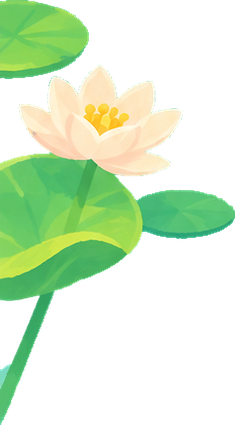
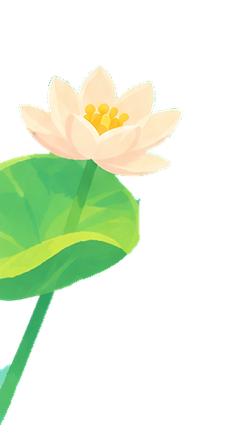
Wad da Frog v.4: clover item, shop rules, layering and polish
- New shop item: four-leaf clover (60 coins, always first in the shop);
  the piggy bank keeps 20% instead of 10% for that run; it glows in its
  seat and tilts right, the bucket tilts left
- Shop: fixed prices (bucket 600, net 700, rainbow 900); buying or a
  mission reward with full seats pushes out the oldest item
- First three events in order: rush, egg feast, red raid; random after
- Layering: kayak shadow under the edge lily pads, edge pads above the
  swamp frogs; removed the marked pads
- 9-slice panels drawn as one image: no seam lines
- Play again: the kayak rises without leftover shaking
- Fix: best distance was never saved (the line sat inside a comment)

Claude-Session: https://claude.ai/code/session_011FqVNA34eSNDpBBPybyU3u

Changed region(s): [[0.0, 0.0, 0.3872, 0.1835], [0.566, 0.4282, 1.0, 0.5812]]

diff --git a/wad-da-frog-v4/index.html b/wad-da-frog-v4/index.html
@@ -26,9 +26,9 @@ const cv=document.getElementById('c');let ctx=cv.getContext('2d');
 const FONT='Fredoka, system-ui, sans-serif';
 let PX=1;const spriteCache=new Map();
 // ---------- v.4 art: painted sprites loaded from assets/ (the old vector drawing stays as a fallback) ----------
-const ASSET_SRC={"frog_egg": "assets/frogs/frog_egg.png", "frog_tadpole": "assets/frogs/frog_tadpole.png", "frog_tadpole_sleep": "assets/frogs/frog_tadpole_sleep.png", "frog_green_teen": "assets/frogs/frog_green_teen.png", "frog_green_teen_sleep": "assets/frogs/frog_green_teen_sleep.png", "frog_green_adult": "assets/frogs/frog_green_adult.png", "frog_red_teen": "assets/frogs/frog_red_teen.png", "frog_red_teen_sleep": "assets/frogs/frog_red_teen_sleep.png", "frog_red_adult": "assets/frogs/frog_red_adult.png", "frog_purple_legs": "assets/frogs/frog_purple_legs.png", "frog_purple_legs_sleep": "assets/frogs/frog_purple_legs_sleep.png", "frog_purple_teen": "assets/frogs/frog_purple_teen.png", "frog_purple_teen_sleep": "assets/frogs/frog_purple_teen_sleep.png", "frog_purple_adult": "assets/frogs/frog_purple_adult.png", "frog_orange_legs": "assets/frogs/frog_orange_legs.png", "frog_orange_legs_sleep": "assets/frogs/frog_orange_legs_sleep.png", "frog_orange_teen": "assets/frogs/frog_orange_teen.png", "frog_orange_teen_sleep": "assets/frogs/frog_orange_teen_sleep.png", "frog_orange_adult": "assets/frogs/frog_orange_adult.png", "frog_blue_legs": "assets/frogs/frog_blue_legs.png", "frog_blue_legs_sleep": "assets/frogs/frog_blue_legs_sleep.png", "frog_blue_tiny": "assets/frogs/frog_blue_tiny.png", "frog_blue_tiny_sleep": "assets/frogs/frog_blue_tiny_sleep.png", "frog_blue_teen": "assets/frogs/frog_blue_teen.png", "frog_blue_teen_sleep": "assets/frogs/frog_blue_teen_sleep.png", "frog_blue_adult": "assets/frogs/frog_blue_adult.png", "frog_yellow_legs": "assets/frogs/frog_yellow_legs.png", "frog_yellow_legs_sleep": "assets/frogs/frog_yellow_legs_sleep.png", "frog_yellow_tiny": "assets/frogs/frog_yellow_tiny.png", "frog_yellow_tiny_sleep": "assets/frogs/frog_yellow_tiny_sleep.png", "frog_yellow_teen": "assets/frogs/frog_yellow_teen.png", "frog_yellow_teen_sleep": "assets/frogs/frog_yellow_teen_sleep.png", "frog_yellow_grown": "assets/frogs/frog_yellow_grown.png", "frog_yellow_grown_sleep": "assets/frogs/frog_yellow_grown_sleep.png", "frog_yellow_adult": "assets/frogs/frog_yellow_adult.png", "kayak": "assets/scene/kayak.png", "kayak_crack_1": "assets/scene/kayak_crack_1.png", "kayak_crack_2": "assets/scene/kayak_crack_2.png", "kayak_crack_3": "assets/scene/kayak_crack_3.png", "bg_swamp": "assets/scene/bg_swamp.jpg", "swamp_leaf": "assets/scene/swamp_leaf.png", "lilypad": "assets/scene/lilypad.png", "lilypad_stem": "assets/scene/lilypad_stem.png", "btn_tutorial": "assets/ui/btn_tutorial.png", "icon_coin": "assets/ui/icon_coin.png", "tutorial_hand": "assets/ui/tutorial_hand.png", "load_icon_happy": "assets/ui/load_icon_happy.png", "load_icon_hmm": "assets/ui/load_icon_hmm.png", "load_icon_worried": "assets/ui/load_icon_worried.png", "load_icon_panic": "assets/ui/load_icon_panic.png", "item_rainbow": "assets/ui/item_rainbow.png", "item_bucket": "assets/ui/item_bucket.png", "item_net": "assets/ui/item_net.png", "mission_poster": "assets/ui/mission_poster.png", "card_newfrog": "assets/ui/card_newfrog.png", "btn_continue_ad": "assets/ui/btn_continue_ad.png", "mission_pad": "assets/ui/mission_pad.png", "piggy_bank": "assets/ui/piggy_bank.png", "tag_10pct": "assets/ui/tag_10pct.png", "logo": "assets/ui/logo.png", "cover": "assets/ui/cover.jpg", "banner_panel": "assets/ui/banner_panel.png", "lotus_bud": "assets/scene/lotus_bud.png", "lotus_half": "assets/scene/lotus_half.png", "lotus_full": "assets/scene/lotus_full.png", "deco_lotus_1": "assets/deco/deco_lotus_1.png", "deco_lotus_2": "assets/deco/deco_lotus_2.png", "deco_lotus_3": "assets/deco/deco_lotus_3.png", "deco_lotus_5": "assets/deco/deco_lotus_5.png", "deco_lotus_6": "assets/deco/deco_lotus_6.png", "frog_green_teen_eat": "assets/frogs/frog_green_teen_eat.png", "frog_red_teen_eat": "assets/frogs/frog_red_teen_eat.png", "frog_purple_teen_eat": "assets/frogs/frog_purple_teen_eat.png", "frog_orange_teen_eat": "assets/frogs/frog_orange_teen_eat.png", "frog_blue_teen_eat": "assets/frogs/frog_blue_teen_eat.png", "frog_yellow_teen_eat": "assets/frogs/frog_yellow_teen_eat.png", "frog_blue_tiny_eat": "assets/frogs/frog_blue_tiny_eat.png", "frog_yellow_tiny_eat": "assets/frogs/frog_yellow_tiny_eat.png", "frog_yellow_grown_eat": "assets/frogs/frog_yellow_grown_eat.png", "shop_card": "assets/ui/shop_card.png", "shop_awning": "assets/ui/shop_awning.png"};
-const RECT={"frog_egg": [-10.5, -10.5, 21, 21], "frog_tadpole": [-13.12, -13.12, 27.75, 26.25], "frog_tadpole_sleep": [-13.12, -13.12, 27.75, 26.25], "frog_green_teen": [-24.15, -19.4, 48.5, 43.5], "frog_green_teen_sleep": [-24.15, -19.4, 48.5, 43.5], "frog_green_adult": [-36.1, -40, 72.25, 74.75], "frog_red_teen": [-24.15, -19.4, 48.5, 43.5], "frog_red_teen_sleep": [-24.15, -19.4, 48.5, 43.5], "frog_red_adult": [-36.1, -44.75, 72.25, 79.5], "frog_purple_legs": [-16.28, -16.28, 34.25, 32.75], "frog_purple_legs_sleep": [-16.28, -16.28, 34.25, 32.75], "frog_purple_teen": [-24.15, -19.4, 48.5, 43.5], "frog_purple_teen_sleep": [-24.15, -19.4, 48.5, 43.5], "frog_purple_adult": [-36.1, -51, 72.25, 85.75], "frog_orange_legs": [-16.28, -16.28, 34.25, 32.75], "frog_orange_legs_sleep": [-16.28, -16.28, 34.25, 32.75], "frog_orange_teen": [-24.15, -19.4, 48.5, 43.5], "frog_orange_teen_sleep": [-24.15, -19.4, 48.5, 43.5], "frog_orange_adult": [-36.1, -28.75, 72.25, 63.5], "frog_blue_legs": [-16.28, -16.28, 34.25, 32.75], "frog_blue_legs_sleep": [-16.28, -16.28, 34.25, 32.75], "frog_blue_tiny": [-19.95, -16.45, 40, 36.5], "frog_blue_tiny_sleep": [-19.95, -16.45, 40, 36.5], "frog_blue_teen": [-24.15, -19.4, 48.5, 43.5], "frog_blue_teen_sleep": [-24.15, -19.4, 48.5, 43.5], "frog_blue_adult": [-36.1, -51, 72.25, 85.75], "frog_yellow_legs": [-16.28, -16.28, 34.25, 32.75], "frog_yellow_legs_sleep": [-16.28, -16.28, 34.25, 32.75], "frog_yellow_tiny": [-19.95, -16.45, 40, 36.5], "frog_yellow_tiny_sleep": [-19.95, -16.45, 40, 36.5], "frog_yellow_teen": [-24.15, -19.4, 48.5, 43.5], "frog_yellow_teen_sleep": [-24.15, -19.4, 48.5, 43.5], "frog_yellow_grown": [-29.4, -23.15, 59, 52], "frog_yellow_grown_sleep": [-29.4, -23.15, 59, 52], "frog_yellow_adult": [-36.1, -40.5, 72.25, 75.25], "kayak": [44.33, 512.33, 271.33, 233.67], "kayak_crack_1": [104.33, 603.33, 34.33, 70.67], "kayak_crack_2": [226.67, 614.33, 34.33, 56.67], "kayak_crack_3": [161, 546.67, 35.67, 51.67], "bg_swamp": [0, 0, 360, 640], "swamp_leaf": [4, 3, 22, 14], "lilypad": [8.25, 5, 89.25, 43], "lilypad_stem": [8.5, 5, 76.25, 62.25], "btn_tutorial": [3, 3, 45, 47], "icon_coin": [4, 4, 22, 23], "tutorial_hand": [13, 2.5, 37, 48.75], "load_icon_happy": [3, 7.6, 44, 25.4], "load_icon_hmm": [3, 7.6, 44, 25.4], "load_icon_worried": [3, 7.6, 44, 25.4], "load_icon_panic": [3, 7.6, 44, 25.4], "item_rainbow": [1.13, 0.0, 31.73, 34], "item_bucket": [0.35, 0.0, 33.29, 34], "item_net": [0.0, 4.04, 34, 25.93], "mission_poster": [7, 4.4, 57.4, 68.2], "card_newfrog": [8, 4, 248, 312], "btn_continue_ad": [4, 4, 112, 112], "mission_pad": [2, 2, 52, 36], "piggy_bank": [6.5, 11, 67, 59.5], "tag_10pct": [2.75, 4, 45, 26], "frog_green_teen_eat": [-24.15, -19.4, 48.5, 43.5], "frog_red_teen_eat": [-24.15, -19.4, 48.5, 43.5], "frog_purple_teen_eat": [-24.15, -19.4, 48.5, 43.5], "frog_orange_teen_eat": [-24.15, -19.4, 48.5, 43.5], "frog_blue_teen_eat": [-24.15, -19.4, 48.5, 43.5], "frog_yellow_teen_eat": [-24.15, -19.4, 48.5, 43.5], "frog_blue_tiny_eat": [-19.95, -16.45, 40, 36.5], "frog_yellow_tiny_eat": [-19.95, -16.45, 40, 36.5], "frog_yellow_grown_eat": [-29.4, -23.15, 59, 52]};   // where each sprite sits, in game units, relative to the point the old code drew from
-const DECO=[["deco_lotus_1", 298.8, 177.1, 61.2, 55.1], ["deco_lotus_2", 0.0, 161.4, 78.4, 141.6], ["deco_lotus_3", 317.5, 283.5, 42.5, 62.0], ["deco_lotus_5", 0.0, 577.7, 67.3, 52.0], ["deco_lotus_6", 277.0, 459.1, 83.0, 153.8]];   // scene decorations around the edges (above the water, under the frogs)
+const ASSET_SRC={"frog_egg": "assets/frogs/frog_egg.png", "frog_tadpole": "assets/frogs/frog_tadpole.png", "frog_tadpole_sleep": "assets/frogs/frog_tadpole_sleep.png", "frog_green_teen": "assets/frogs/frog_green_teen.png", "frog_green_teen_sleep": "assets/frogs/frog_green_teen_sleep.png", "frog_green_adult": "assets/frogs/frog_green_adult.png", "frog_red_teen": "assets/frogs/frog_red_teen.png", "frog_red_teen_sleep": "assets/frogs/frog_red_teen_sleep.png", "frog_red_adult": "assets/frogs/frog_red_adult.png", "frog_purple_legs": "assets/frogs/frog_purple_legs.png", "frog_purple_legs_sleep": "assets/frogs/frog_purple_legs_sleep.png", "frog_purple_teen": "assets/frogs/frog_purple_teen.png", "frog_purple_teen_sleep": "assets/frogs/frog_purple_teen_sleep.png", "frog_purple_adult": "assets/frogs/frog_purple_adult.png", "frog_orange_legs": "assets/frogs/frog_orange_legs.png", "frog_orange_legs_sleep": "assets/frogs/frog_orange_legs_sleep.png", "frog_orange_teen": "assets/frogs/frog_orange_teen.png", "frog_orange_teen_sleep": "assets/frogs/frog_orange_teen_sleep.png", "frog_orange_adult": "assets/frogs/frog_orange_adult.png", "frog_blue_legs": "assets/frogs/frog_blue_legs.png", "frog_blue_legs_sleep": "assets/frogs/frog_blue_legs_sleep.png", "frog_blue_tiny": "assets/frogs/frog_blue_tiny.png", "frog_blue_tiny_sleep": "assets/frogs/frog_blue_tiny_sleep.png", "frog_blue_teen": "assets/frogs/frog_blue_teen.png", "frog_blue_teen_sleep": "assets/frogs/frog_blue_teen_sleep.png", "frog_blue_adult": "assets/frogs/frog_blue_adult.png", "frog_yellow_legs": "assets/frogs/frog_yellow_legs.png", "frog_yellow_legs_sleep": "assets/frogs/frog_yellow_legs_sleep.png", "frog_yellow_tiny": "assets/frogs/frog_yellow_tiny.png", "frog_yellow_tiny_sleep": "assets/frogs/frog_yellow_tiny_sleep.png", "frog_yellow_teen": "assets/frogs/frog_yellow_teen.png", "frog_yellow_teen_sleep": "assets/frogs/frog_yellow_teen_sleep.png", "frog_yellow_grown": "assets/frogs/frog_yellow_grown.png", "frog_yellow_grown_sleep": "assets/frogs/frog_yellow_grown_sleep.png", "frog_yellow_adult": "assets/frogs/frog_yellow_adult.png", "kayak": "assets/scene/kayak.png", "kayak_crack_1": "assets/scene/kayak_crack_1.png", "kayak_crack_2": "assets/scene/kayak_crack_2.png", "kayak_crack_3": "assets/scene/kayak_crack_3.png", "bg_swamp": "assets/scene/bg_swamp.jpg", "swamp_leaf": "assets/scene/swamp_leaf.png", "lilypad": "assets/scene/lilypad.png", "lilypad_stem": "assets/scene/lilypad_stem.png", "btn_tutorial": "assets/ui/btn_tutorial.png", "icon_coin": "assets/ui/icon_coin.png", "tutorial_hand": "assets/ui/tutorial_hand.png", "load_icon_happy": "assets/ui/load_icon_happy.png", "load_icon_hmm": "assets/ui/load_icon_hmm.png", "load_icon_worried": "assets/ui/load_icon_worried.png", "load_icon_panic": "assets/ui/load_icon_panic.png", "item_rainbow": "assets/ui/item_rainbow.png", "item_bucket": "assets/ui/item_bucket.png", "item_net": "assets/ui/item_net.png", "mission_poster": "assets/ui/mission_poster.png", "card_newfrog": "assets/ui/card_newfrog.png", "btn_continue_ad": "assets/ui/btn_continue_ad.png", "mission_pad": "assets/ui/mission_pad.png", "piggy_bank": "assets/ui/piggy_bank.png", "tag_10pct": "assets/ui/tag_10pct.png", "logo": "assets/ui/logo.png", "cover": "assets/ui/cover.jpg", "banner_panel": "assets/ui/banner_panel.png", "lotus_bud": "assets/scene/lotus_bud.png", "lotus_half": "assets/scene/lotus_half.png", "lotus_full": "assets/scene/lotus_full.png", "deco_lotus_2": "assets/deco/deco_lotus_2.png", "deco_lotus_3": "assets/deco/deco_lotus_3.png", "deco_lotus_5": "assets/deco/deco_lotus_5.png", "deco_lotus_6": "assets/deco/deco_lotus_6.png", "frog_green_teen_eat": "assets/frogs/frog_green_teen_eat.png", "frog_red_teen_eat": "assets/frogs/frog_red_teen_eat.png", "frog_purple_teen_eat": "assets/frogs/frog_purple_teen_eat.png", "frog_orange_teen_eat": "assets/frogs/frog_orange_teen_eat.png", "frog_blue_teen_eat": "assets/frogs/frog_blue_teen_eat.png", "frog_yellow_teen_eat": "assets/frogs/frog_yellow_teen_eat.png", "frog_blue_tiny_eat": "assets/frogs/frog_blue_tiny_eat.png", "frog_yellow_tiny_eat": "assets/frogs/frog_yellow_tiny_eat.png", "frog_yellow_grown_eat": "assets/frogs/frog_yellow_grown_eat.png", "shop_card": "assets/ui/shop_card.png", "shop_awning": "assets/ui/shop_awning.png", "item_clover": "assets/ui/item_clover.png"};
+const RECT={"frog_egg": [-10.5, -10.5, 21, 21], "frog_tadpole": [-13.12, -13.12, 27.75, 26.25], "frog_tadpole_sleep": [-13.12, -13.12, 27.75, 26.25], "frog_green_teen": [-24.15, -19.4, 48.5, 43.5], "frog_green_teen_sleep": [-24.15, -19.4, 48.5, 43.5], "frog_green_adult": [-36.1, -40, 72.25, 74.75], "frog_red_teen": [-24.15, -19.4, 48.5, 43.5], "frog_red_teen_sleep": [-24.15, -19.4, 48.5, 43.5], "frog_red_adult": [-36.1, -44.75, 72.25, 79.5], "frog_purple_legs": [-16.28, -16.28, 34.25, 32.75], "frog_purple_legs_sleep": [-16.28, -16.28, 34.25, 32.75], "frog_purple_teen": [-24.15, -19.4, 48.5, 43.5], "frog_purple_teen_sleep": [-24.15, -19.4, 48.5, 43.5], "frog_purple_adult": [-36.1, -51, 72.25, 85.75], "frog_orange_legs": [-16.28, -16.28, 34.25, 32.75], "frog_orange_legs_sleep": [-16.28, -16.28, 34.25, 32.75], "frog_orange_teen": [-24.15, -19.4, 48.5, 43.5], "frog_orange_teen_sleep": [-24.15, -19.4, 48.5, 43.5], "frog_orange_adult": [-36.1, -28.75, 72.25, 63.5], "frog_blue_legs": [-16.28, -16.28, 34.25, 32.75], "frog_blue_legs_sleep": [-16.28, -16.28, 34.25, 32.75], "frog_blue_tiny": [-19.95, -16.45, 40, 36.5], "frog_blue_tiny_sleep": [-19.95, -16.45, 40, 36.5], "frog_blue_teen": [-24.15, -19.4, 48.5, 43.5], "frog_blue_teen_sleep": [-24.15, -19.4, 48.5, 43.5], "frog_blue_adult": [-36.1, -51, 72.25, 85.75], "frog_yellow_legs": [-16.28, -16.28, 34.25, 32.75], "frog_yellow_legs_sleep": [-16.28, -16.28, 34.25, 32.75], "frog_yellow_tiny": [-19.95, -16.45, 40, 36.5], "frog_yellow_tiny_sleep": [-19.95, -16.45, 40, 36.5], "frog_yellow_teen": [-24.15, -19.4, 48.5, 43.5], "frog_yellow_teen_sleep": [-24.15, -19.4, 48.5, 43.5], "frog_yellow_grown": [-29.4, -23.15, 59, 52], "frog_yellow_grown_sleep": [-29.4, -23.15, 59, 52], "frog_yellow_adult": [-36.1, -40.5, 72.25, 75.25], "kayak": [44.33, 512.33, 271.33, 233.67], "kayak_crack_1": [104.33, 603.33, 34.33, 70.67], "kayak_crack_2": [226.67, 614.33, 34.33, 56.67], "kayak_crack_3": [161, 546.67, 35.67, 51.67], "bg_swamp": [0, 0, 360, 640], "swamp_leaf": [4, 3, 22, 14], "lilypad": [8.25, 5, 89.25, 43], "lilypad_stem": [8.5, 5, 76.25, 62.25], "btn_tutorial": [3, 3, 45, 47], "icon_coin": [4, 4, 22, 23], "tutorial_hand": [13, 2.5, 37, 48.75], "load_icon_happy": [3, 7.6, 44, 25.4], "load_icon_hmm": [3, 7.6, 44, 25.4], "load_icon_worried": [3, 7.6, 44, 25.4], "load_icon_panic": [3, 7.6, 44, 25.4], "item_rainbow": [1.13, 0.0, 31.73, 34], "item_bucket": [0.35, 0.0, 33.29, 34], "item_net": [0.0, 4.04, 34, 25.93], "mission_poster": [7, 4.4, 57.4, 68.2], "card_newfrog": [8, 4, 248, 312], "btn_continue_ad": [4, 4, 112, 112], "mission_pad": [2, 2, 52, 36], "piggy_bank": [6.5, 11, 67, 59.5], "tag_10pct": [2.75, 4, 45, 26], "frog_green_teen_eat": [-24.15, -19.4, 48.5, 43.5], "frog_red_teen_eat": [-24.15, -19.4, 48.5, 43.5], "frog_purple_teen_eat": [-24.15, -19.4, 48.5, 43.5], "frog_orange_teen_eat": [-24.15, -19.4, 48.5, 43.5], "frog_blue_teen_eat": [-24.15, -19.4, 48.5, 43.5], "frog_yellow_teen_eat": [-24.15, -19.4, 48.5, 43.5], "frog_blue_tiny_eat": [-19.95, -16.45, 40, 36.5], "frog_yellow_tiny_eat": [-19.95, -16.45, 40, 36.5], "frog_yellow_grown_eat": [-29.4, -23.15, 59, 52], "item_clover": [1.7, 0.0, 30.6, 34]};   // where each sprite sits, in game units, relative to the point the old code drew from
+const DECO=[["deco_lotus_2", 0.0, 161.4, 78.4, 141.6], ["deco_lotus_3", 317.5, 283.5, 42.5, 62.0], ["deco_lotus_5", 0.0, 577.7, 67.3, 52.0], ["deco_lotus_6", 277.0, 459.1, 83.0, 153.8]];   // scene decorations around the edges (above the water, under the frogs)
 const PLUM='#520929',CREAM='#fff8ec',HUDBR='#896838';
 const IMG={};let assetsReady=false,assetsDone=0;const assetsTotal=Object.keys(ASSET_SRC).length;
 function loadOne(id){return new Promise(res=>{const im=new Image();im.onload=im.onerror=()=>{assetsDone++;res()};im.src=ASSET_SRC[id];IMG[id]=im})}
@@ -39,8 +39,7 @@ function drawRect(id,ox,oy,k){const im=img(id),r=RECT[id];if(!im||!r)return fals
 function rrect(x,y,w,h,r){ctx.beginPath();ctx.roundRect(x,y,w,h,Math.min(r,w/2,h/2))}
 // a stretchy panel: the painted banner, cut into left cap / middle / right cap so it keeps its round ends at any width
 function panel(x,y,w,h){const im=img('banner_panel');if(!im){ctx.fillStyle='rgba(6,20,16,.72)';rrect(x,y,w,h,14);ctx.fill();return}
-  const s=h/im.height,cap=Math.min(im.height*.55,im.width/2),cw=cap*s;
-  ctx.drawImage(im,0,0,cap,im.height,x,y,cw,h);ctx.drawImage(im,cap,0,im.width-cap*2,im.height,x+cw,y,Math.max(0,w-cw*2),h);ctx.drawImage(im,im.width-cap,0,cap,im.height,x+w-cw,y,cw,h)}
+  nine('banner_panel',x,y,w,h,Math.round(im.height*.45),h*.45)}
 
 let OYV=0;   // extra scene above and below the 360x640 play area, in game units (fills tall phone screens)
 function resize(){
@@ -107,7 +106,7 @@ const EV_WARN=2.2, EV_CALM=6, EGG_FEAST=9, BURST_ROWS=3, BURST_TIME=.55, ROW_H=4
 const LV_START=60, LV_RATE=.003;   // the main difficulty: after the first minute, boarding and rows keep speeding up with time (+0.4% a second, no ceiling)
 const EV_W={rows:.45,reds:.3,eggs:.25};
 const CRACKS_MAX=3;
-const RAID_FROM=3;   // the red raid can come from the 4th event on   // a red frog crashing on the kayak cracks it; the third crack sinks it
+const RAID_FROM=2;   // the red raid can come from the 4th event on   // a red frog crashing on the kayak cracks it; the third crack sinks it
 const EGG_RAIN=.15, EGG_BOARD=2.2;   // chance a wave is an egg rain instead of a rush; eggs climb aboard this much faster
 const RUSH_ROWS=2.4, RUSH_BOARD=1.8, CALM_BOARD=.45;              // how much faster rows / boarders come during a rush; boarders during a calm
 const ADULT_WAIT=.55;             // an adult crouches this long, then uses its ability
@@ -126,8 +125,12 @@ const SEATS=[[33,487],[33,535],[33,583]];   // item pads along the left edge (ta
 // ---------- items (bought in the shop when you sink; up to 3 sit in the cockpit seats and stay there between runs; tap to use) ----------
 const ITEMS={rainbow:{icon:'🌈',name:'Rainbow',desc:'Any colours merge for a moment'},
   bucket:{icon:'🪣',name:'Bucket',desc:'Scoops frogs off the kayak'},
-  net:{icon:'🥅',name:'Net',desc:'Stops the next red frog (works by itself)'}};
+  net:{icon:'🥅',name:'Net',desc:'Stops the next red frog (works by itself)'},
+  clover:{icon:'🍀',name:'Clover',desc:'The piggy bank keeps 20% this run'}};
 const ITEM_KEYS=Object.keys(ITEMS),ITEM_MAX=3,RAINBOW_TIME=6;
+const ITEM_TILT={bucket:-Math.PI/6,clover:Math.PI/6};
+const PRICE={clover:60,bucket:600,net:700,rainbow:900};
+let seatOut=null;   // the item pushed out of a full row of seats (floats up and fades)
 // ---------- state ----------
 let state='start',t=0,frogs=[],parts=[],texts=[],leavers=[],reds=[],deckReds=[],slapped=[],clouds=[],raft=[],
   coins=0,meters=0,pace=0,cool=0,rowT=0,boardT=0,sinkT=0,load=0,thrown=0,drag=null,endT=0,scroll=0,shake=0,pileLow=0,
@@ -240,7 +243,7 @@ function drawMood(){if(state!=='play'&&state!=='card')return;
         ctx.fillStyle='rgba(255,246,200,'+(.8*tw*moodK)+')';const z=3+3*tw;ctx.beginPath();ctx.moveTo(x,y-z);ctx.lineTo(x+z*.3,y);ctx.lineTo(x,y+z);ctx.lineTo(x-z*.3,y);ctx.closePath();ctx.fill();ctx.beginPath();ctx.moveTo(x-z,y);ctx.lineTo(x,y+z*.3);ctx.lineTo(x+z,y);ctx.lineTo(x,y-z*.3);ctx.closePath();ctx.fill()}}}
   if(calmK>.01){ctx.fillStyle='rgba(255,255,225,'+(.08*calmK)+')';ctx.fillRect(0,-OYV,W,H+OYV*2)}}
 function raidPositions(n){const w=n*(2*STAGES[ADULT].r+2);return Array.from({length:n},(_,i)=>(W-w)/2+STAGES[ADULT].r+i*(2*STAGES[ADULT].r+2))}
-function pickEvent(){if(evN===0)return 'rows';
+function pickEvent(){if(evN===0)return 'rows';if(evN===1)return 'eggs';if(evN===2&&redsSeen)return 'reds';
   const ok=Object.keys(EV_W).filter(k=>!(k==='reds'&&(!redsSeen||evKind==='reds'||evN<RAID_FROM)));let r=Math.random()*ok.reduce((a,k)=>a+EV_W[k],0);
   for(const k of ok){r-=EV_W[k];if(r<=0)return k}return 'rows'}
 function rumble(){tone(80,.9,'sine',.16,.6);noise(.6,220,.12)}
@@ -265,19 +268,18 @@ const today=()=>{const d=new Date();return d.getFullYear()+'-'+(d.getMonth()+1)+
 function makeMission(idx){let sp,n;
   if(idx%2===0){sp='green';n=Math.min(30,6+4*(idx/2))}   // 6, 10, 14 ...
   else{const pool=['red'].concat(['orange','purple','blue'].filter(k=>seen.includes(k)));sp=pool[((idx-1)/2)%pool.length];n=Math.min(8,{red:2,orange:3,purple:3,blue:2}[sp]+Math.floor(idx/4))}
-  return{day:today(),idx,sp,need:n,left:n,item:ITEM_KEYS[Math.floor(Math.random()*ITEM_KEYS.length)]}}
+  const pk=['rainbow','bucket','net'];return{day:today(),idx,sp,need:n,left:n,item:pk[Math.floor(Math.random()*pk.length)]}}
 function saveMission(){try{localStorage.setItem('wadMission4',JSON.stringify(mission))}catch(e){}}
 function loadMission(){try{mission=JSON.parse(localStorage.getItem('wadMission4')||'null')}catch(e){mission=null}
   if(!mission||mission.day!==today()){mission=makeMission(0);saveMission()}}   // a new day: back to the first, easy poster
 loadMission();
 function missionHit(sp){if(tut||!mission||misAnim||state!=='play'||sp!==mission.sp)return;mission.left--;misPop=.3;saveMission();tone(990,.06,'triangle',.06);
   if(mission.left<=0)misAnim={t:0,item:mission.item,done:{}}}
-function missionUpdate(dt){misPop=Math.max(0,misPop-dt);if(seatPop){seatPop.t+=dt;if(seatPop.t>.5)seatPop=null}
+function missionUpdate(dt){misPop=Math.max(0,misPop-dt);if(seatPop){seatPop.t+=dt;if(seatPop.t>.5)seatPop=null}if(seatOut){seatOut.t+=dt;if(seatOut.t>.6)seatOut=null}
   if(!misAnim)return;const a=misAnim;a.t+=dt;
   if(!a.done.peel){a.done.peel=1;tone(660,.1,'triangle',.1);setTimeout(()=>tone(880,.1,'triangle',.1),80);setTimeout(()=>tone(1320,.16,'triangle',.1),160);noise(.2,2500,.08)}
   if(a.t>1.1&&!a.done.give){a.done.give=1;
-    if(boatItems.length<ITEM_MAX){boatItems.push(a.item);saveItems();seatPop={i:boatItems.length-1,t:0};tone(1046,.12,'triangle',.12)}
-    else{coins+=MIS_FULL_COINS;for(let i=0;i<8;i++)coinFly.push({x:MIS_PAD[0]+rnd(-8,8),y:MIS_PAD[1]+rnd(-8,8),t:-i*.05,dur:rnd(.45,.65)});tone(1046,.12,'triangle',.12)}}
+    {if(boatItems.length>=ITEM_MAX)seatOut={k:boatItems.shift(),t:0};boatItems.push(a.item);saveItems();seatPop={i:boatItems.length-1,t:0};tone(1046,.12,'triangle',.12)}}
   if(a.t>1.5&&!a.done.next){a.done.next=1;mission=makeMission(mission.idx+1);saveMission()}
   if(a.t>2.1)misAnim=null}
 const MIS_SC=1.55;
@@ -427,7 +429,7 @@ function aimTarget(){const it=raft[0];if(!it||it.st!==0||!aiming())return null;c
   return best&&canEat(best)?best:null}
 function gainItem(k,x,y){burst(x,y,'#fff3a0',16);tone(880,.1,'triangle',.12);setTimeout(()=>tone(1320,.14,'triangle',.12),90);
   say(x,y-30,ITEMS[k].icon+' '+ITEMS[k].name,'#fff3a0',18);
-  if(boatItems.length<ITEM_MAX){boatItems.push(k);saveItems()}else useItem(k)}
+  if(boatItems.length>=ITEM_MAX)seatOut={k:boatItems.shift(),t:0};boatItems.push(k);saveItems()}
 function useItem(k){if(tut)tut.used=k;if(k==='bucket'&&!bucketTold){bucketTold=true;bucketTip=false;try{localStorage.setItem('wadBucket4','1')}catch(e){}}showBanner(ITEMS[k].icon+' '+ITEMS[k].name,'#fff3a0');
   if(k==='rainbow'){rainbowT=RAINBOW_TIME;rainNote=0;for(const f of frogs){f.awake=true;if(!f.enter)f.pop=.2}shake=Math.max(shake,.15);
     [523,659,784,1046].forEach((f,i)=>setTimeout(()=>tone(f,.14,'triangle',.12),i*80))}
@@ -570,8 +572,10 @@ function drawAd(){ctx.fillStyle='#111';ctx.fillRect(0,-OYV,W,H+OYV*2);txt('AD',W
   ctx.fillStyle='rgba(255,255,255,.2)';ctx.fillRect(60,H/2+40,W-120,8);ctx.fillStyle='#ffd34a';ctx.fillRect(60,H/2+40,(W-120)*clamp(adT/AD_TIME,0,1),8)}   // a stand-in for a real video ad
 function finishOver(){state='over';endHint=null;endT=t;const bonus=Math.floor(meters/10);
   endInfo={secs:Math.floor(t),m:Math.floor(meters),frogCoins:coins,bonus,total:coins+bonus,newBest:Math.floor(meters)>bestM};
-  endInfo.saved=Math.ceil(endInfo.total*PIGGY_CUT);piggyShow=wallet;wallet+=endInfo.saved;   // the piggy bank only keeps 10% of the runbestM=Math.max(bestM,Math.floor(meters));
-  const pool=ITEM_KEYS.slice().sort(()=>Math.random()-.5);shop=pool.map((k,i)=>({k,price:150+Math.floor(Math.random()*11)*25,x:72+i*108,y:430,sold:false,shakeT:0}));
+  {const ci=boatItems.indexOf('clover');endInfo.cut=ci>=0?.2:PIGGY_CUT;if(ci>=0){boatItems.splice(ci,1);saveItems()}}   // a lucky clover: the piggy bank keeps 20%
+  endInfo.saved=Math.ceil(endInfo.total*endInfo.cut);piggyShow=wallet;wallet+=endInfo.saved;   // the piggy bank only keeps 10% of the run
+  bestM=Math.max(bestM,Math.floor(meters));
+  const pool=['clover'].concat(['bucket','net','rainbow'].sort(()=>Math.random()-.5).slice(0,2));shop=pool.map((k,i)=>({k,price:PRICE[k],x:72+i*108,y:430,sold:false,shakeT:0}));
   try{localStorage.setItem('wadWallet',wallet);localStorage.setItem('wadBestM4',bestM)}catch(e){}
   sadSound();drag=null}
 
@@ -708,10 +712,11 @@ function drawCrack(i){const c=CRACKS[i],fx=crackFx>0&&i===cracks-1?1+crackFx*.6:
   ctx.strokeStyle='rgba(255,220,190,.7)';ctx.lineWidth=5*fx;ctx.beginPath();c.forEach(([x,y],k)=>k?ctx.lineTo(x,y):ctx.moveTo(x,y));ctx.stroke();
   ctx.strokeStyle='#5a2a14';ctx.lineWidth=2.6*fx;ctx.beginPath();c.forEach(([x,y],k)=>k?ctx.lineTo(x,y):ctx.moveTo(x,y));ctx.stroke();
   const[mx,my]=c[1];ctx.lineWidth=1.6;ctx.beginPath();ctx.moveTo(mx,my);ctx.lineTo(mx+(i===1?-9:9),my-5);ctx.stroke()}
+function kayakBob(){const sink=clamp(load,0,1.2);return Math.sin(t*2.2)*1.5+sink*8+(load>=1?beatFx*4:0)+(state==='over'||state==='cont'||state==='ad'?Math.min(60,(t-endT)*50):state==='restart'?60*Math.pow(1-clamp(restartT/1.1,0,1),2):0)}
+function drawKayakShadow(){const bob=kayakBob();ctx.save();ctx.translate(180,KB+bob);ctx.scale(KS,KS);ctx.translate(-180,-KB+KY);ctx.fillStyle='rgba(18,70,60,.3)';ell(180,600,140,120);ctx.restore()}
 function drawKayak(){
-  const sink=clamp(load,0,1.2),bob=Math.sin(t*2.2)*1.5+sink*8+(load>=1?beatFx*4:0)+(state==='over'||state==='cont'||state==='ad'?Math.min(60,(t-endT)*50):state==='restart'?60*Math.pow(1-clamp(restartT/1.1,0,1),2):0);
+  const bob=kayakBob();
   ctx.save();ctx.translate(180,KB+bob);ctx.scale(KS,KS);ctx.translate(-180,-KB+KY);
-  ctx.fillStyle='rgba(18,70,60,.3)';ell(180,600,140,120);
   const kim=img('kayak');
   if(kim){const KL=r=>[(r[0]-180)/KS+180,(r[1]-KB)/KS+KB-KY,r[2]/KS,r[3]/KS],q=KL(RECT.kayak);ctx.drawImage(kim,q[0],q[1],q[2],q[3]);
     for(let i=0;i<cracks;i++){const id='kayak_crack_'+(i+1),c=img(id);if(!c)continue;const p=KL(RECT[id]),fx=crackFx>0&&i===cracks-1?1+crackFx*.6:1,cx=p[0]+p[2]/2,cy=p[1]+p[3]/2;
@@ -901,6 +906,7 @@ function drawPlay(){
       ctx.fillStyle='#ff8fa0';ctx.beginPath();ctx.ellipse(0,r*.24+r*.18*m,r*.24,r*.12*m,0,0,Math.PI*2);ctx.fill();ctx.restore()}}
     if(f.fed>0){ctx.fillStyle='#e1eefc';for(let i=0;i<EAT_TO_GROW;i++){ctx.globalAlpha=i<f.fed?1:.3;dot(f.x-4+i*8,f.y-f.r-6,2.6)}ctx.globalAlpha=1}}
   for(const s of swimmers)drawFrog(s.st,s.sp,s.x,s.y+(s.t>0?Math.sin(t*16+s.y)*1.5:0),s.r,s.t>0?s.dir*.15:0,1);
+  drawDeco();   // edge lily pads float above the swamp frogs
   drawCanopy();
   for(const g of rings){const k=g.t/.35;ctx.strokeStyle='rgba('+g.c+','+((g.a||.8)*(1-k))+')';ctx.lineWidth=3*(1-k)+1;ctx.beginPath();ctx.arc(g.x,g.y,g.r*(.6+.9*k),0,7);ctx.stroke()}
   for(const c of clouds){const k=c.t/c.dur;ctx.fillStyle='rgba('+c.c+','+(.4*(1-k))+')';dot(c.x,c.y,c.r*(.5+.6*k));
@@ -927,7 +933,11 @@ function drawPlay(){
   for(const d of deckReds){const sc=1+Math.sin(d.t*6)*.04;drawFrog(ADULT,'red',d.x,d.y+bob,STAGES[ADULT].r*.8,Math.sin(d.t*3)*.1,sc);
     ctx.strokeStyle='rgba(255,154,133,'+(.5+.4*Math.sin(t*10))+')';ctx.lineWidth=3;ctx.beginPath();ctx.arc(d.x,d.y+bob,STAGES[ADULT].r*.8+6,0,7);ctx.stroke()}
   if(state!=='over'&&state!=='cont'&&state!=='ad')drawMission();
-  if(state!=='over'&&state!=='cont'&&state!=='ad')for(let i=0;i<boatItems.length;i++){const[x,y]=SEATS[i];const sp0=seatPop&&seatPop.i===i?seatPop.t/.5:-1;if(i===pulseItem||sp0>=0){const z=sp0>=0?(sp0<.6?1.35*Math.sin(sp0/.6*Math.PI/2):1.35-.35*(sp0-.6)/.4):1+.16*Math.abs(Math.sin(t*6));ctx.save();ctx.translate(x-hullX,y);ctx.scale(z,z);drawSticker(ITEMS[boatItems[i]].icon,0,0,22);ctx.restore()}else drawSticker(ITEMS[boatItems[i]].icon,x-hullX,y,22)}
+  if(state!=='over'&&state!=='cont'&&state!=='ad'){for(let i=0;i<boatItems.length;i++){const[x,y]=SEATS[i],k=boatItems[i],sp0=seatPop&&seatPop.i===i?seatPop.t/.5:-1;
+    const z=sp0>=0?(sp0<.6?1.35*Math.sin(sp0/.6*Math.PI/2):1.35-.35*(sp0-.6)/.4):i===pulseItem?1+.16*Math.abs(Math.sin(t*6)):1,tilt=ITEM_TILT[k]||0;
+    if(k==='clover'){ctx.fillStyle='rgba(200,255,150,'+(.25+.15*Math.sin(t*3))+')';dot(x-hullX,y,17)}
+    ctx.save();ctx.translate(x-hullX,y);ctx.rotate(tilt);ctx.scale(z*(tilt?.9:1),z*(tilt?.9:1));drawSticker(ITEMS[k].icon,0,0,22);ctx.restore()}
+  if(seatOut){const q=seatOut.t/.6;ctx.save();ctx.globalAlpha=1-q;ctx.translate(SEATS[0][0]-hullX,SEATS[0][1]-30*q);ctx.scale(1+.3*q,1+.3*q);drawSticker(ITEMS[seatOut.k].icon,0,0,22);ctx.restore()}}
   if(nets>0){ctx.strokeStyle='rgba(240,240,230,.55)';ctx.lineWidth=1.5;const cx=180,cy=BOW[1]+30+bob;
     for(let i=-4;i<=4;i++){ctx.beginPath();ctx.moveTo(cx+i*12-30,cy-30);ctx.lineTo(cx+i*12+30,cy+30);ctx.moveTo(cx+i*12+30,cy-30);ctx.lineTo(cx+i*12-30,cy+30);ctx.stroke()}}
   const nx=raft[0];
@@ -988,6 +998,7 @@ function playAgain(){if(USE_HEARTS&&hearts.n<=0)return;
   jumpers=raft.map((it,i)=>{const[sx,sy]=slotPos(i),x=it.px??sx,y=it.py??sy;return{st:it.st,sp:it.sp,x,y,vx:(x<W/2?-1:1)*rnd(80,190),vy:rnd(-440,-330),t:-i*.05,land:y+rnd(25,60)}});
   for(const dr of deckReds)jumpers.push({st:ADULT,sp:'red',x:dr.x,y:dr.y,vx:(dr.x<W/2?-1:1)*rnd(120,220),vy:-460,t:0,land:dr.y+50});
   swimmers=frogs.filter(f=>!f.dead).map(f=>({st:f.st,sp:f.sp,x:f.x,y:f.y,r:f.r,dir:f.x<W/2?-1:1,t:-clamp((BOAT_Y-f.y)/(BOAT_Y-TOP),0,1)*.45,v:0}));
+  hullHit=0;shake=0;beatFx=0;sinkT=0;crackFx=0;gaugePulse=0;   // no leftover shaking from the sinking
   oldM=endInfo?endInfo.m:Math.floor(meters);const v0=vl,tf=tutDoneFlag;tutDoneFlag=true;newGame(null);tutDoneFlag=tf;vl=v0;
   for(const f of frogs){f.ty0=f.y;f.y=TOP-40}   // the new rows wait under the lily band
   raft=[];state='restart';restartT=0;tone(520,.12,'triangle',.1);setTimeout(()=>tone(660,.14,'triangle',.1),120)}
@@ -1008,8 +1019,13 @@ const PIGGY_CUT=.1;
 const OVER_PIG=[108,292],BTN={x:W/2,y:552,w:200,h:52};
 const coinsShown=()=>{const k=clamp((t-endT-1.5)/1.2,0,1);return Math.round(piggyShow+(wallet-piggyShow)*k)};
 // a 9-slice of a painted panel: corners keep their size, edges and middle stretch
-function nine(id,x,y,w,h,sp,du){const im=img(id);if(!im)return false;const iw=im.width,ih=im.height,sx=[0,sp,iw-sp,iw],sy=[0,sp,ih-sp,ih],dx=[x,x+du,x+w-du,x+w],dy=[y,y+du,y+h-du,y+h];
-  for(let a=0;a<3;a++)for(let b=0;b<3;b++){const sw=sx[a+1]-sx[a],sh=sy[b+1]-sy[b],dw=dx[a+1]-dx[a],dh=dy[b+1]-dy[b];if(sw>0&&sh>0&&dw>0&&dh>0)ctx.drawImage(im,sx[a],sy[b],sw,sh,dx[a],dy[b],dw,dh)}return true}
+const NINE_CACHE=new Map();
+function nine(id,x,y,w,h,sp,du){const im=img(id);if(!im)return false;
+  const W2=Math.max(1,Math.round(w*PX)),H2=Math.max(1,Math.round(h*PX)),D=Math.max(1,Math.round(du*PX)),key=id+'|'+W2+'|'+H2+'|'+sp+'|'+D;let c=NINE_CACHE.get(key);
+  if(!c){c=document.createElement('canvas');c.width=W2;c.height=H2;const g=c.getContext('2d'),iw=im.width,ih=im.height,sx=[0,sp,iw-sp,iw],sy=[0,sp,ih-sp,ih],dx=[0,D,W2-D,W2],dy=[0,D,H2-D,H2];
+    for(let a=0;a<3;a++)for(let b=0;b<3;b++){const sw=sx[a+1]-sx[a],sh=sy[b+1]-sy[b],dw=dx[a+1]-dx[a]+(a<2?1:0),dh=dy[b+1]-dy[b]+(b<2?1:0);if(sw>0&&sh>0&&dw>0&&dh>0)g.drawImage(im,sx[a],sy[b],sw,sh,dx[a],dy[b],dw,dh)}
+    NINE_CACHE.set(key,c)}
+  ctx.drawImage(c,x,y,w,h);return true}
 // the shop slot stretched taller: the awning and the bottom edge keep their size, the sides stretch
 // a shop card: the cream new-frog card, 9-sliced to size, with the striped awning across the top
 function shopSlot(x,y,w,h){const cd=img('shop_card'),aw=img('shop_awning');
@@ -1037,8 +1053,9 @@ function drawOver(){const k=clamp((t-endT-.9)/.4,0,1);if(k<=0)return;const e=end
   for(let i=0;i<10;i++){const p=(fk-i*.08)/.5;if(p<0||p>=1)continue;const q=p*p*(3-2*p);coinIcon(from[0]+(px-from[0])*q,from[1]+(py-from[1])*q-Math.sin(p*Math.PI)*40,7)}
   const hop=fk>0&&fk<1.3?Math.abs(Math.sin(fk*12))*.08:0,sx=poorT>0?Math.sin(t*55)*8*poorT/.6:0;
   ctx.save();ctx.translate(px+sx,py);ctx.scale((1+hop)*.85,(1-hop*.6)*.85);if(!drawRect('piggy_bank',-40,-40)){ctx.font='56px system-ui, "Apple Color Emoji", "Segoe UI Emoji", sans-serif';ctx.textAlign='center';ctx.fillText('🐷',0,18)}
-  {const tg=img('tag_10pct');if(tg){const r=RECT.tag_10pct;ctx.drawImage(tg,40.6-r[2]/2,-14.1-r[3]/2,r[2],r[3])}}ctx.restore();
-  label('piggy bank keeps 10%',176,283,13,'rgba(255,248,236,.75)');
+  if(e.cut>.1){ctx.save();ctx.translate(40,-14);ctx.rotate(.15);ctx.fillStyle=CREAM;rrect(-22,-12,44,24,8);ctx.fill();ctx.strokeStyle=PLUM;ctx.lineWidth=2.5;rrect(-22,-12,44,24,8);ctx.stroke();label('20%',4,6,15,PLUM,'center');ctx.restore();drawRect('item_clover',18-17*.55,-34-17*.55,.55)}
+  else{const tg=img('tag_10pct');if(tg){const r=RECT.tag_10pct;ctx.drawImage(tg,40.6-r[2]/2,-14.1-r[3]/2,r[2],r[3])}}ctx.restore();
+  label('piggy bank keeps '+Math.round((e.cut||.1)*100)+'%',176,283,13,e.cut>.1?'#c8ff9e':'rgba(255,248,236,.75)');
   coinIcon(186,304,10);{const s=String(coinsShown());txt(s,200,313,26,poorT>0?'#ff6b5a':'#ffe27a');if(fk>0){ctx.font='600 26px '+FONT;const w=ctx.measureText(s).width;label('+'+e.saved,206+w,312,15,'#c8ff9e')}}
   // shop: three taller slots, item under the awning, name and price below
   for(const c of shop){const it=ITEMS[c.k],shx=c.shakeT>0?Math.sin(t*60)*6*c.shakeT/.6:0,sw=96,sh2=132,x=c.x-sw/2+shx,y=352;
@@ -1056,9 +1073,8 @@ function drawOver(){const k=clamp((t-endT-.9)/.4,0,1);if(k<=0)return;const e=end
 let endHint=null;
 function overTap(p){if(t-endT<1.2)return;
   for(const c of shop)if(!c.sold&&Math.abs(p.x-c.x)<48&&p.y>352&&p.y<484){
-    if(boatItems.length>=ITEM_MAX){endHint={s:'Seats are full: use an item first'};c.shakeT=.6;tone(200,.15,'square',.08);return}
-    if(wallet>=c.price){wallet-=c.price;piggyShow=wallet;c.sold=true;boatItems.push(c.k);saveItems();try{localStorage.setItem('wadWallet',wallet)}catch(e){}
-      endHint={s:ITEMS[c.k].icon+' '+ITEMS[c.k].desc};tone(880,.1,'triangle',.12);setTimeout(()=>tone(1320,.14,'triangle',.12),90)}
+    if(wallet>=c.price){wallet-=c.price;piggyShow=wallet;c.sold=true;let out=null;if(boatItems.length>=ITEM_MAX){out=boatItems.shift();seatOut={k:out,t:0}}boatItems.push(c.k);saveItems();try{localStorage.setItem('wadWallet',wallet)}catch(e){}
+      endHint={s:out?ITEMS[out].name+' swapped out for '+ITEMS[c.k].name:ITEMS[c.k].desc};tone(880,.1,'triangle',.12);setTimeout(()=>tone(1320,.14,'triangle',.12),90)}
     else{poorT=.6;c.shakeT=.6;endHint={s:'Not enough coins!'};tone(200,.15,'square',.08);setTimeout(()=>tone(150,.2,'square',.08),120)}
     return}
   if(t-endT>1.8&&Math.abs(p.x-BTN.x)<BTN.w/2&&Math.abs(p.y-BTN.y)<BTN.h/2+6)playAgain()}
@@ -1066,7 +1082,7 @@ function overTap(p){if(t-endT<1.2)return;
 function draw(){
   if(!assetsReady){drawLoading();return}
   ctx.save();if(shake>0)ctx.translate((Math.random()-.5)*12*shake,(Math.random()-.5)*12*shake);
-  drawBG();drawDeco();drawMood();drawRainbow();drawPlay();if(state==='intro')drawIntro();
+  drawBG();drawKayakShadow();drawMood();drawRainbow();drawPlay();if(state==='intro')drawIntro();
   for(const j of jumpers)if(j.t>=0)drawFrog(j.st,j.sp,j.x,j.y,STAGES[j.st].r*.8,j.t*6,1);
   ctx.restore();
   if(state==='play'&&wave==='event'&&evKind==='eggs'){ctx.globalAlpha=.6;for(let i=0;i<10;i++){const x=(i*71+20)%W,y=((t*90+i*57)%(H-120))+TOP;drawFrog(0,null,x,y,6,0,1)}ctx.globalAlpha=1}
@@ -1096,7 +1112,7 @@ cv.addEventListener('pointerdown',e=>{const p=pt(e);audioOn();idleT=0;
   if(state==='restart'){if(restartT>.3)finishRestart();return}   // tap to skip
   if(state==='card'){if(cardT>.6){state='play';card=null}return}
   cv.setPointerCapture(e.pointerId);
-  const ii=itemAt(p);if(ii>=0){const k=boatItems.splice(ii,1)[0];saveItems();useItem(k);return}
+  const ii=itemAt(p);if(ii>=0){if(boatItems[ii]==='clover'){say(SEATS[ii][0]+40,SEATS[ii][1]-10,'Works when the run ends','#c8ff9e',13);return}const k=boatItems.splice(ii,1)[0];saveItems();useItem(k);return}
   lastP=p;if(swat(p,0,0))return;
   if(p.y>300&&raft.length)drag={x:p.x,y:p.y,cx:p.x,cy:p.y}});
 cv.addEventListener('pointermove',e=>{const p=pt(e);if(state==='play'&&e.buttons&&lastP){if(swat(p,p.x-lastP.x,p.y-lastP.y)){lastP=p;drag=null;return}}lastP=p;if(!drag)return;drag.cx=p.x;drag.cy=p.y;});
